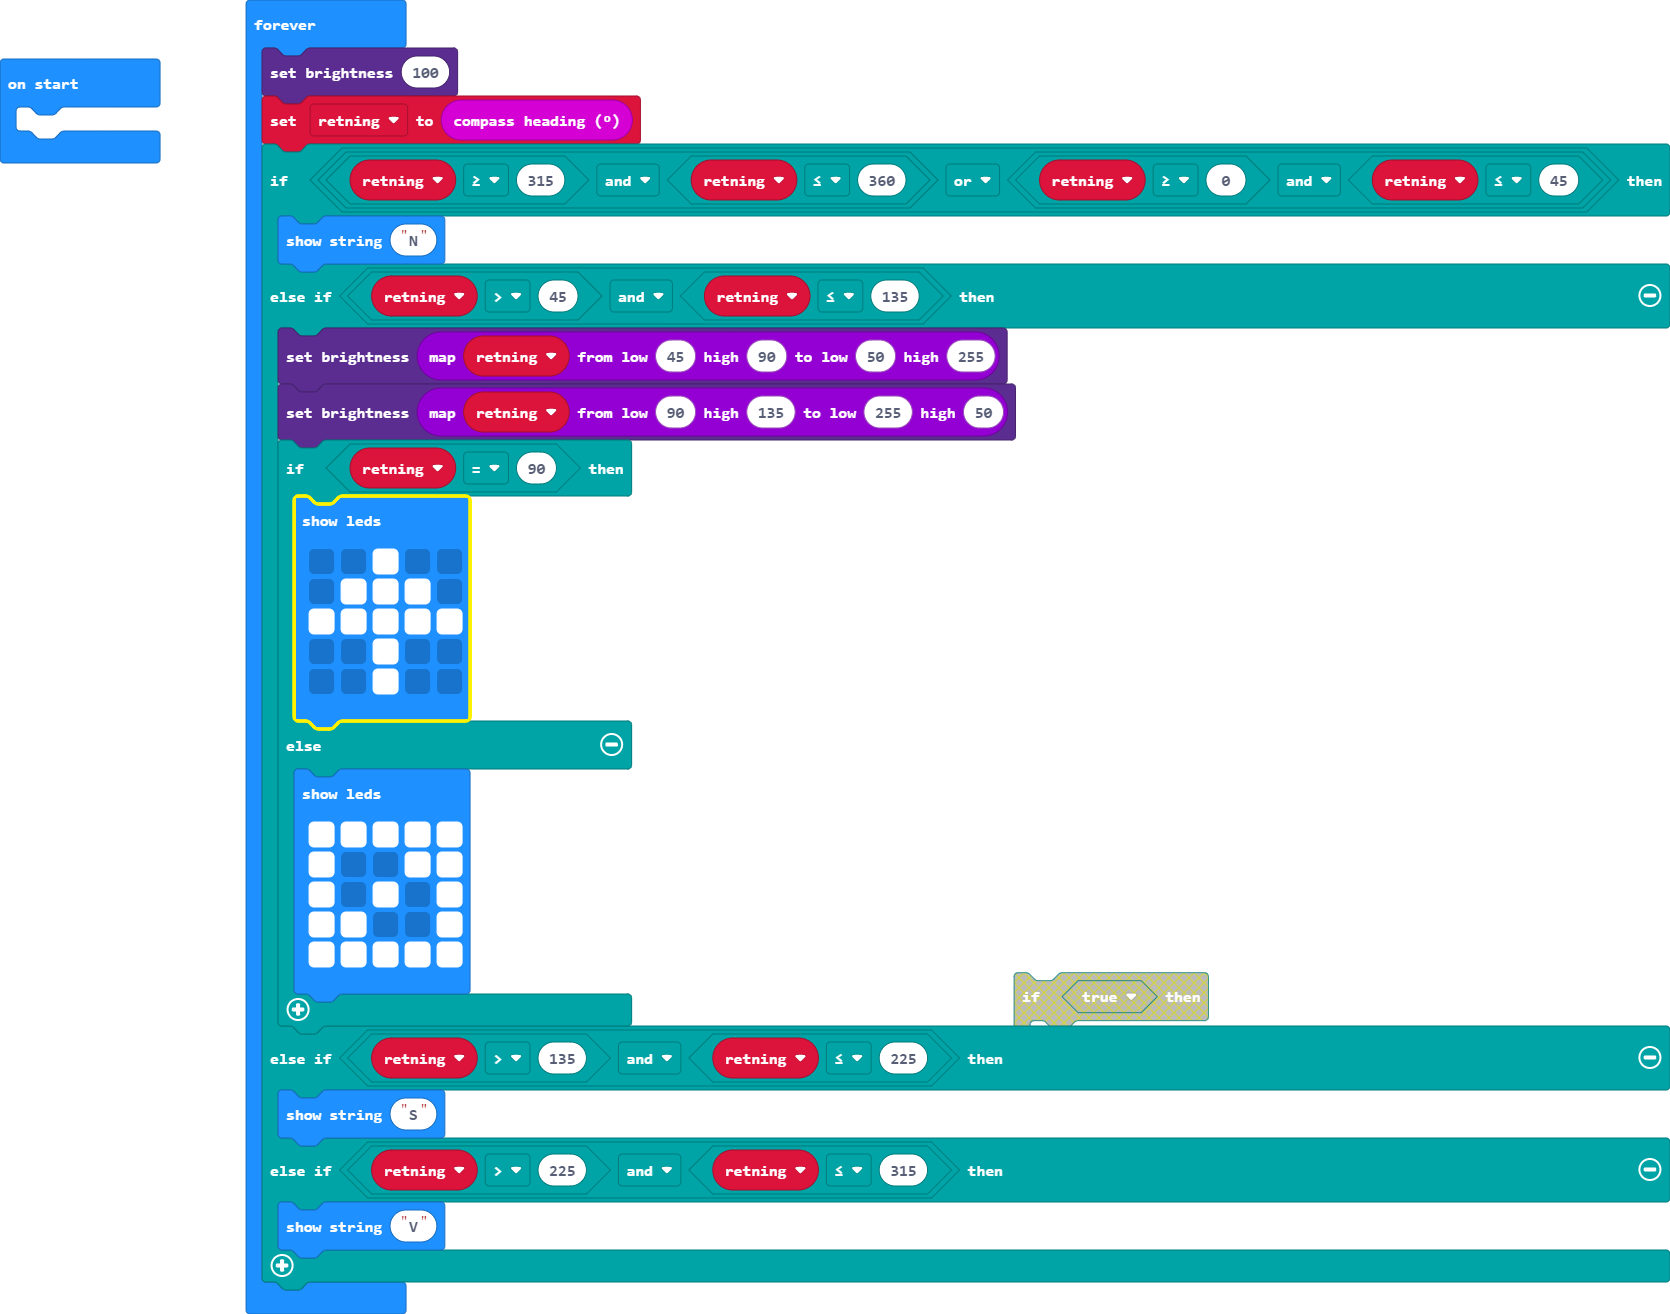
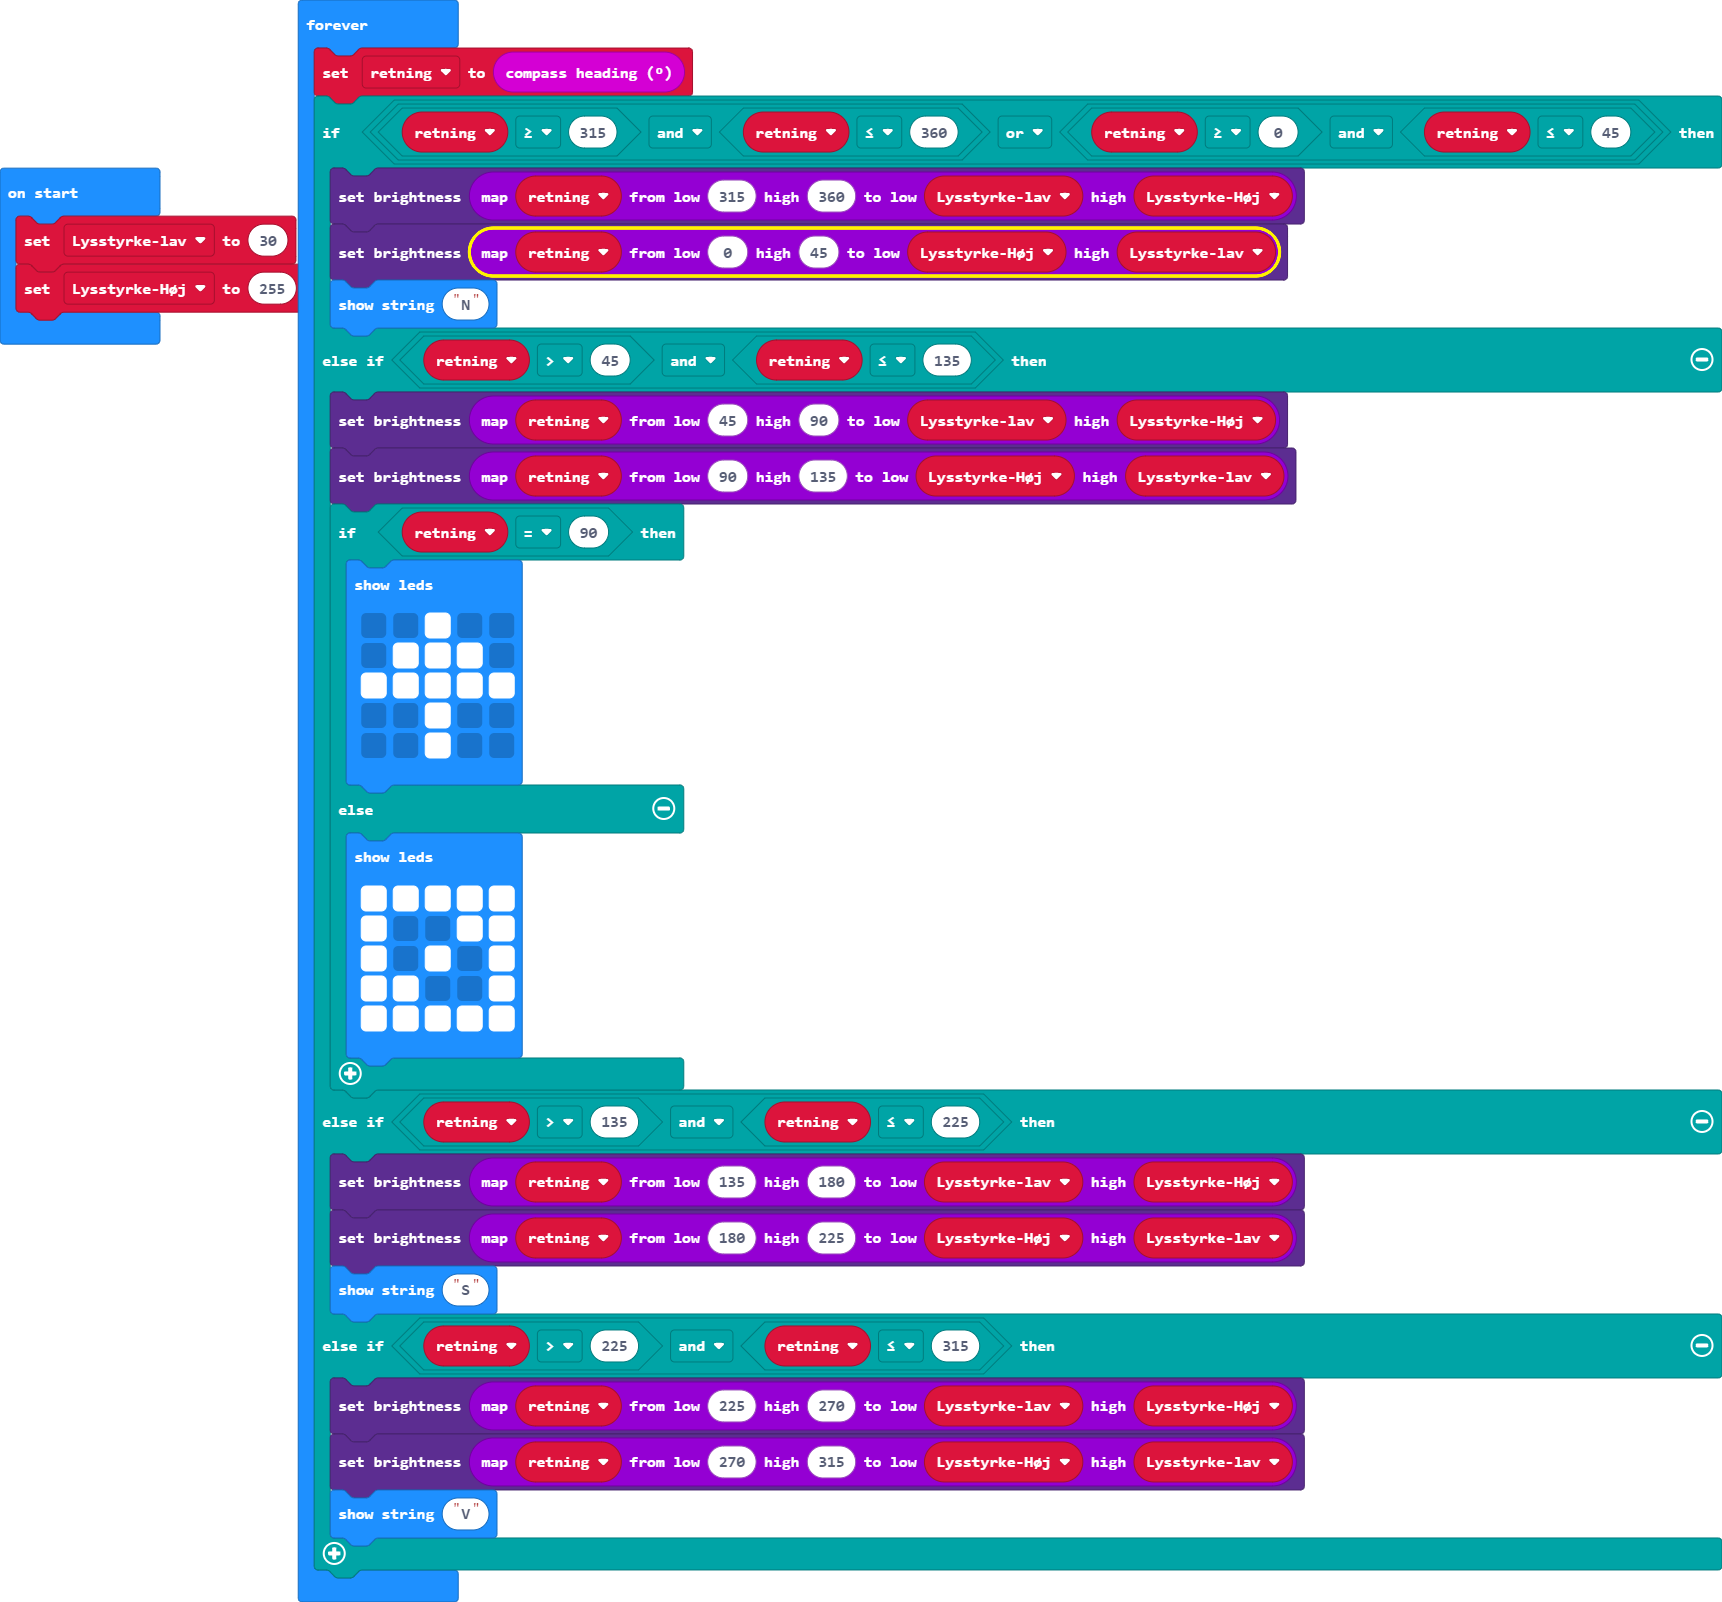
ændring i lystyrke styring

diff --git a/main.ts b/main.ts
@@ -1,12 +1,15 @@
 let retning = 0
+let Lysstyrkelav = 30
+let LysstyrkeHøj = 255
 basic.forever(function () {
-    led.setBrightness(100)
     retning = input.compassHeading()
     if (retning >= 315 && retning <= 360 || retning >= 0 && retning <= 45) {
+        led.setBrightness(Math.map(retning, 315, 360, Lysstyrkelav, LysstyrkeHøj))
+        led.setBrightness(Math.map(retning, 0, 45, LysstyrkeHøj, Lysstyrkelav))
         basic.showString("N")
     } else if (retning > 45 && retning <= 135) {
-        led.setBrightness(Math.map(retning, 45, 90, 50, 255))
-        led.setBrightness(Math.map(retning, 90, 135, 255, 50))
+        led.setBrightness(Math.map(retning, 45, 90, Lysstyrkelav, LysstyrkeHøj))
+        led.setBrightness(Math.map(retning, 90, 135, LysstyrkeHøj, Lysstyrkelav))
         if (retning == 90) {
             basic.showLeds(`
                 . . # . .
@@ -25,8 +28,12 @@ basic.forever(function () {
                 `)
         }
     } else if (retning > 135 && retning <= 225) {
+        led.setBrightness(Math.map(retning, 135, 180, Lysstyrkelav, LysstyrkeHøj))
+        led.setBrightness(Math.map(retning, 180, 225, LysstyrkeHøj, Lysstyrkelav))
         basic.showString("S")
     } else if (retning > 225 && retning <= 315) {
+        led.setBrightness(Math.map(retning, 225, 270, Lysstyrkelav, LysstyrkeHøj))
+        led.setBrightness(Math.map(retning, 270, 315, LysstyrkeHøj, Lysstyrkelav))
         basic.showString("V")
     }
 })
